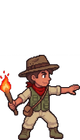
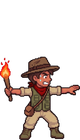
art: the concentrated side frame; the profile kept raw with a cleanup roll
Claude-Session: https://claude.ai/code/session_018WV7pZwTJC84nRwPESXJfW

Changed region(s): [[0.0, 0.3714, 1.0, 1.0]]

diff --git a/docs/instructions/repaint-queue.md b/docs/instructions/repaint-queue.md
@@ -3109,9 +3109,9 @@ flat magenta background.
 ```
 
 **LANDED: the side row.** Its return is kept as `art/masters/explorer/explorer-squeeze-e.webp` and imported
-(front-on, back to the wall, arms spread, torch upright, side-stepping right; west is that frame mirrored, no
-master). The front and back rows did not come back right; they are rolled by `default/explorerSqueezeProfile`
-below, so do not re-roll them from this sheet.
+(front-on, back to the wall, arms spread, torch upright, gritted teeth, sweat drop, concentrated; west is that
+frame mirrored, no master). The front and back rows did not come back right; they are rolled by
+`default/explorerSqueezeProfile` below, so do not re-roll them from this sheet.
 
 Save the DOWNLOAD as explorer-squeeze.png in ~/Downloads, cut it, and keep the first frame of each row (front,
 back, side) as `explorer-squeeze-{s,n,e}.webp` under `art/masters/explorer/`:
@@ -3123,6 +3123,10 @@ yarn cut-sheet ~/Downloads/explorer-squeeze.png --out=/tmp/squeeze --rows=front,
 **Import:** `yarn import-tile art/masters/explorer/explorer-squeeze-<f>.webp --tier=default --name=explorer-squeeze-<f> --slot=explorer --filter=smooth`
 
 ### `default/explorerSqueezeProfile` — the squeezing explorer in profile, for the front (south) frame
+
+**LANDED, with cleanup:** the profile came back as the designer's pick (belly in, stressed) but with a ghosted
+second torch and a detached floating hand. It is kept raw as `art/masters/explorer/explorer-squeeze-s-raw.webp`
+and not imported; `default/explorerSqueezeClean` below paints those two defects out. Do not re-roll this entry.
 
 An EDIT of the one approved squeeze frame (`explorer-squeeze-e`, the side-stepping front-on pose), turned a
 quarter turn. Rank-neutral, shared `default` art. One frame per roll: this entry yields
@@ -3156,6 +3160,36 @@ yarn cut-sheet ~/Downloads/explorer-squeeze-s.png --out=/tmp/squeeze-s --min=0.8
 ```
 
 **Import:** `yarn import-tile art/masters/explorer/explorer-squeeze-<f>.webp --tier=default --name=explorer-squeeze-<f> --slot=explorer --filter=smooth`
+
+### `default/explorerSqueezeClean` — the profile squeeze with its ghost torch and floating hand removed
+
+An EDIT of the raw profile frame (`explorer-squeeze-s-raw`), the designer's pick for the north–south
+crossing. Rank-neutral, shared `default` art. The raw frame has two generation defects: a blurred, pink-tinted
+second torch beside the real one, and a detached, pink-tinted motion-blur hand floating to his right.
+Everything else is approved and must not move. Frame aspect: about 0.72:1 (726x1003 on the source cut).
+
+**Attach:**
+
+1. `~/tile-previews/explorer-squeeze-s-raw.png` — the raw profile frame on flat magenta, with the ghost torch
+   and the floating hand
+
+```
+Edit this single sprite. Keep everything exactly as it is: the character, the pose, the face, the
+expression, the colours, the size and the framing. Change only two things. Remove the blurred second torch
+beside the real torch, and remove the floating blurred hand to his right. Paint his right hand pressed flat
+against his own chest, against the wall, instead: no blur, no ghosting, no motion lines. Same flat magenta
+background, same single frame.
+```
+
+Save the DOWNLOAD as explorer-squeeze-s.png in ~/Downloads, cut it (one frame) and keep it as
+`explorer-squeeze-s.webp` under `art/masters/explorer/`. The north frame `explorer-squeeze-n` uses this same
+frame (mirrored if the walk needs it), so it needs no master of its own:
+
+```sh
+yarn cut-sheet ~/Downloads/explorer-squeeze-s.png --out=/tmp/squeeze-s --min=0.8
+```
+
+**Import:** `yarn import-tile art/masters/explorer/explorer-squeeze-s.webp --tier=default --name=explorer-squeeze-s --slot=explorer --filter=smooth`
 
 ## Region barrier covers — two
 

diff --git a/art/README.md b/art/README.md
@@ -174,7 +174,7 @@ on its own, and a sheet is built from them whenever one is needed:
 art/masters/explorer/explorer-<facing>-<n>.webp   one walking pose, large, on magenta
 art/masters/explorer/explorer-carry-<facing>-<n>.webp
 art/masters/explorer/explorer-zip-<facing>.webp
-art/masters/explorer/explorer-squeeze-<facing>.webp   e is kept; s and n come from the explorerSqueezeProfile roll
+art/masters/explorer/explorer-squeeze-<facing>.webp   e is kept; s and n come from the explorerSqueezeClean roll (raw: explorer-squeeze-s-raw)
 art/masters/explorer/spare/                       whole sheets not in use yet
 ```
 
